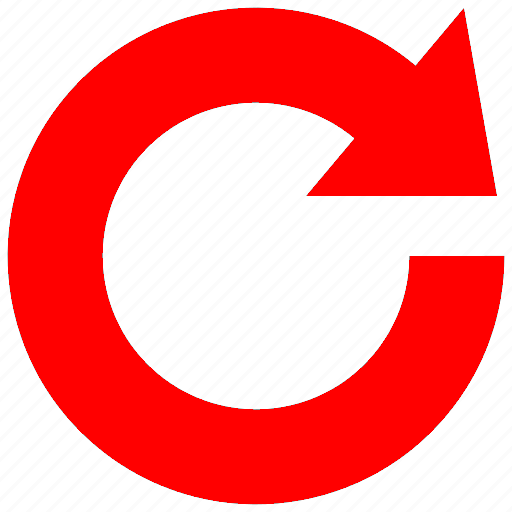
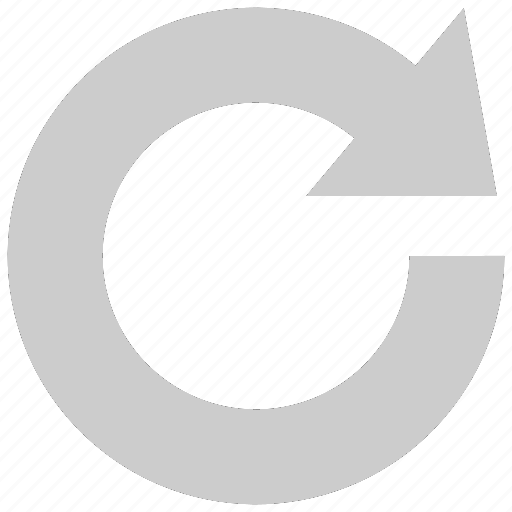
Add refresh button

diff --git a/css/styles.css b/css/styles.css
@@ -3,14 +3,7 @@ body {
 }
 
 #fullscreen {
-  font-family: Arial, Helvetica, sans-serif;
-  background-color: rgba(0, 0, 0, 0);
-  border: none;
-  text-align: center;
-  text-decoration: none;
-  font-size: 17px;
-  width: 30px;
-  height: 30px;
+  background-color: transparent;
   float: right;
 }
 
@@ -40,14 +33,6 @@ body {
 }
 
 #refresh {
-  font-family: Arial, Helvetica, sans-serif;
-  background-color: rgba(0, 0, 0, 0);
-  border: none;
-  text-align: center;
-  text-decoration: none;
-  font-size: 17px;
-  width: 30px;
-  height: 30px;
+  background-color: transparent;
   float: left;
-  filter: saturate(0%) brightness(4);
 }

diff --git a/index.html b/index.html
@@ -24,8 +24,8 @@
       <iframe id="embed" src="games/ngon/index.html"></iframe>
       <br />
       <span id="embedBar">
-        <img id="refresh" src="img/refresh.png" />
-        <img id="fullscreen" onclick="document.getElementById('embed').requestFullscreen();" src="img/fullscreen.png" />
+        <img id="refresh" src="img/refresh.png" width="30px" />
+        <img id="fullscreen" onclick="document.getElementById('embed').requestFullscreen();" src="img/fullscreen.png" width="30px" />
       </span>
     </span>
     <script src="scripts/Tnav.js"></script>

diff --git a/scripts/refresh.js b/scripts/refresh.js
@@ -2,5 +2,5 @@ var refresh = document.getElementById("refresh");
 var embed = document.getElementById("embed");
 
 refresh.onclick = function(e) {
-  embed.contentWindow.location.refresh;
+  embed.contentWindow.location.refresh();
 }
